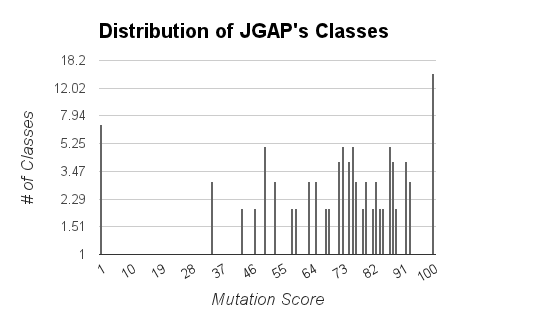
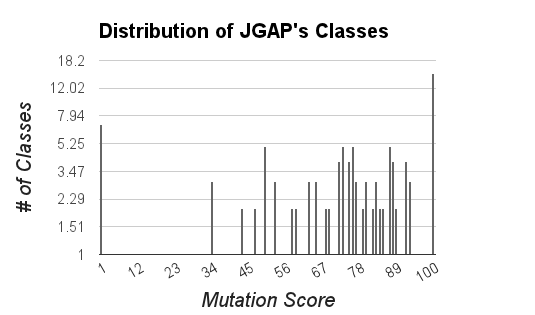
Address more issues on the paper submission
Add:
 * Horizontal lines under tables
 * The actual number of data points we gathered into the results section
 * Italics around quote in conclusion section

Remove:
 * Itemizes and enumerates from .tex to save space

Refactor:
 * Verbose captions to save space
 * Table of Javalanche's results to in-line text to save space
 * Cross-validation bit as well as moved it to the results section
 * Feature Data section to reference the gathering of metric sets
 * Version footnotes to in-line text to save space
 * Javalanche's mutation operator table to in-line text to save space
 * Mutation score distribution figure's font sizes to be larger
 * Mutation score distribution figure's placement
 * References to trim down space taken
 * Trim hanging whitespace
 * Wording in some phrases

diff --git a/doc/RAISE2012/RAISE2012.tex b/doc/RAISE2012/RAISE2012.tex
@@ -42,13 +42,11 @@ Mutation testing uses a set of \emph{mutation operators} to generate faulty vers
 
 A major drawback of mutation testing is that even a small program may yield hundreds or thousands of mutants potentially making the process cost prohibitive in comparison to other coverage metrics such as statement or branch coverage. Several approaches have been proposed in the literature to improve mutation testing performance and scalability~\cite{OU00}:
 
-\begin{itemize}
-  \item \textbf{``Do fewer'' approach:} this category of optimizations aim to decrease the computational cost of mutation testing by reducing the number of mutants that a test suite is evaluated against. The most popular example from this category is selective mutation -- the use of a subset of mutation operators that have been empirically shown to be as effective as using an entire set of operators~\cite{OLR+96}. Another example of a ``do fewer'' approach is to randomly sample mutants~\cite{Won93}.
+\textbf{``Do fewer'' approach:} this category of optimizations aim to decrease the computational cost of mutation testing by reducing the number of mutants that a test suite is evaluated against. The most popular example from this category is selective mutation -- the use of a subset of mutation operators that have been empirically shown to be as effective as using an entire set of operators~\cite{OLR+96}. Another example of a ``do fewer'' approach is to randomly sample mutants~\cite{Won93}.
 
-  \item \textbf{``Do smarter'' approach:} this category of optimizations aim to decrease the cost of mutation testing by improving the actual mutation testing technique. For example, weak mutation \emph{``...is an approximation technique that compares the internal states of mutant and original program immediately after execution of the mutated portion of the code (instead of comparing the program output)''}~\cite{OU00}.
+\textbf{``Do smarter'' approach:} this category of optimizations aim to decrease the cost of mutation testing by improving the actual mutation testing technique. For example, weak mutation \emph{``...is an approximation technique that compares the internal states of mutant and original program immediately after execution of the mutated portion of the code (instead of comparing the program output)''}~\cite{OU00}.
 
-  \item \textbf{``Do faster'' approach:} this category of optimizations aim to reduce the cost of mutation testing by focusing on performance. For example, one ``do faster'' approach improves compilation time using schema-based mutation -- \emph{``...encodes all mutations into one source level program...''}~\cite{OU00}.
-\end{itemize}
+\textbf{``Do faster'' approach:} this category of optimizations aim to reduce the cost of mutation testing by focusing on performance. For example, one ``do faster'' approach improves compilation time using schema-based mutation -- \emph{``...encodes all mutations into one source level program...''}~\cite{OU00}.
 
 As an alternative to the above techniques, we propose a ``do fewer and smarter'' technique for mutation testing at a unit level.  When mutation testing is used for the creation or improvement of a test suite,  the test suite will often have to be applied to the mutants in an iterative fashion as tests are added, removed and modified. Furthermore, the effects on the mutation score after each iteration have to be observed. We propose to replace at least some of these intermediate test suite evaluations on mutants with mutation score prediction and thus decrease the number of mutants that have to be evaluated using a test suite. Our proposed approach uses machine learning to predict the mutation score based on a combination of source code and test suite metrics of the code unit under test.
 
@@ -66,42 +64,21 @@ A support vector machine (SVM) is an example of a linear discrimination machine 
 
 Traditionally, SVMs have been used for two-group classification problems~\cite{CV95} but have also been generalized to \emph{n}-group classification problems. In a two-group classification problem this approach identifies an optimal separating hyperplane that divides the set of data into two groups based on a set of support vectors (i.e., features). In other words, the goal is to maximize the distance from the closest data points on both sides of the hyperplane to the hyperplane itself~\cite{ALP04}.
 
-In our research we use LIBSVM\footnote{LIBSVM version 3.11}, a SVM library capable of solving \emph{n}-group classification problems~\cite{CL11}. LIBSVM was chosen because it provides a command-line interface that could be easily integrated with the other tools used in our approach.
+In our research we use LIBSVM (version 3.11), a SVM library capable of solving \emph{n}-group classification problems~\cite{CL11}. LIBSVM was chosen because it provides a command-line interface that could be easily integrated with the other tools used in our approach.
 
 
 \subsection{Javalanche -- a mutation testing tool for Java}
 \label{subsec:javalanche}
-Mutation testing has previously been described in Section~\ref{sec:introduction}. In our research we use Javalanche\footnote{Javalanche version 0.4}, a mutation testing tool for Java~\cite{SZ09} that applies a subset of the method-level mutation operators to source code. Method-level operators are the most common set of mutation operators applied to procedural programming languages and each method-level mutation defines a syntactic change to an operator, operand or statement in a program. Javalanche uses a subset of the method-level mutation operators (see Table~\ref{tab:mutation_operators}). These selected operators provide a close approximation of the effectiveness of using the entire set of method-level operators at a reduced cost~\cite{OLR+96}. 
+Mutation testing has previously been described in Section~\ref{sec:introduction}. In our research we use Javalanche (version 0.4), a mutation testing tool for Java~\cite{SZ09} that applies a subset of the method-level mutation operators to source code. Method-level operators are the most common set of mutation operators applied to procedural programming languages and each method-level mutation defines a syntactic change to an operator, operand or statement in a program. Javalanche uses a subset of the method-level mutation operators (replace constant, negate jump, arithmetic replace, remove call, replace variable, absolute value, unary operator) . These selected operators provide a close approximation of the effectiveness of using the entire set of method-level operators at a reduced cost~\cite{OLR+96}.
 
-We chose Javalanche for our research because it is customizable and extensible, therefore allowing us to modify Javalanche to calculate unit mutation scores and output a richer set of results. We plan to further take advantage of Javalanche's extensibility in the future by adding object-oriented mutation operators. Other benefits of Javalanche include: full integration with JUnit and the use of mutation schemas to improve performance. 
-
-\begin{table}[!t]
-  \centering
-  \rowcolors{2}{gray!30}{gray!20}
-  \begin{tabular}{|l|l|}
-    \hline
-    \rowcolor[RGB]{169,196,223}
-    \textbf{Mutation Operator} & \textbf{Description} \\
-    \hline REPLACE\_CONSTANT & Replace a constant \\
-    \hline NEGATE\_JUMP & Negate jump condition \\
-    \hline ARITHMETIC\_REPLACE & Replace arithmetic operator \\
-    \hline REMOVE\_CALL & Remove method call \\
-    \hline REPLACE\_VARIABLE & Replace variable reference\\
-    \hline ABSOLUTE\_VALUE & Insert absolute value of a variable \\
-    \hline UNARY\_OPERATOR & Insert unary operator \\
-    \hline
-  \end{tabular}
-  \caption{The set of selective method-level mutation operators used in Javalanche~\cite{OLR+96}}
-  \label{tab:mutation_operators}
-\end{table}
-
+We chose Javalanche for our research because it is customizable and extensible, therefore allowing us to modify Javalanche to calculate unit mutation scores and output a richer set of results. We plan to further take advantage of Javalanche's extensibility in the future by adding object-oriented mutation operators. Other benefits of Javalanche include: full integration with JUnit and the use of mutation schemas to improve performance.
 
 \subsection{Eclipse Metrics Plugin -- a source code metrics tool}
 \label{subsec:Metrics}
 Source code metrics measure knowledge of a project's source code through the use of code analysis. Source code metrics give insight into various aspects of the source code including it's complexity, size, coupling, cohesion as well as object-oriented attributes~\cite{SCE05,McCa76,Kan02,HWY09,Hend95,SRD12}.
 
-In our research, we use the Eclipse Metrics Plugin\footnote{Eclipse Metrics Plugin version 1.3.8.20100730-001} to acquire source code metrics of the methods and classes under test~\cite{Metrics}. We selected this tool as it provides a comprehensive set of metrics for Java programs. 
-We use Eclipse Metrics Plugin to collect metrics for feature sets \ding{172} and indirectly \ding{174} and \ding{175} from Table~\ref{tab:metrics}.
+In our research, we use the Eclipse Metrics Plugin (version 1.3.8.20100730-001) to acquire source code metrics of the methods and classes under test~\cite{Metrics}. We selected this tool as it provides a comprehensive set of metrics for Java programs.
+We use Eclipse Metrics Plugin to collect metrics for feature sets \ding{172}, \ding{174} and \ding{175} from Table~\ref{tab:metrics}.
 
 \begin{table}[!t]
   \centering
@@ -110,7 +87,7 @@ We use Eclipse Metrics Plugin to collect metrics for feature sets \ding{172} and
     \hline
     \rowcolor[RGB]{169,196,223}
     \textbf{Metrics} & \textbf{Description} & \textbf{Scope} & \textbf{Set} \\
-    
+
     % Set 1: Source Code Metrics
     \hline MLOC & Method lines of code & Method & \ding{172} \\
     \hline NBD & Nested block depth & Method & \ding{172} \\
@@ -140,7 +117,7 @@ We use Eclipse Metrics Plugin to collect metrics for feature sets \ding{172} and
     \hline ANBD & Average of NBD of methods & Class & \ding{174} \\
     \hline AVG & Average of VG of methods & Class & \ding{174} \\
     \hline APAR & Average of PAR of methods & Class & \ding{174} \\
-    
+
     % Set 4: Accumulated Test Case Metrics
     \hline STMLOC & Sum of MLOC of test methods & Class/Method & \ding{175} \\
     \hline STNBD & Sum of NBD of test methods & Class/Method & \ding{175} \\
@@ -159,12 +136,14 @@ We use Eclipse Metrics Plugin to collect metrics for feature sets \ding{172} and
   \end{tabular}
   \caption{The set of metrics used in our research. Each set of metrics correspond to a particular feature set (\ding{172}: Source Code Metrics, \ding{173}: Coverage Metrics, \ding{174}: Accumulated Source Code Metrics, \ding{175}: Accumulated Test Case Metrics, \ding{176}: Number of Tests Cases.)}
   \label{tab:metrics}
+  \vspace{2mm}
+  \hrule
 \end{table}
 
 
 \subsection{EMMA -- a test suite coverage tool}
 \label{subsec:emma}
-Test suite metrics can be gathered using similar technique to those used in the gathering of source code metrics. In fact, since we focus on JUnit test cases (which are Java classes) we can actually use the Eclipse Metrics Plugin to gather some of the test suite metrics. To gather other test suite metrics we use the tool EMMA\footnote{EMMA version 2.0.5312} which is capable of determining the statement and basic block coverage of a test suite~\cite{EMMA}. We use Emma to acquire metrics for feature set \ding{173} and also indirectly \ding{176} from Table~\ref{tab:metrics}.
+Test suite metrics can be gathered using similar technique to those used in the gathering of source code metrics. In fact, since we focus on JUnit test cases (which are Java classes) we can actually use the Eclipse Metrics Plugin to gather some of the test suite metrics. To gather other test suite metrics we use the tool EMMA (version 2.0.5312) which is capable of determining the statement and basic block coverage of a test suite~\cite{EMMA}. We use Emma to acquire metrics for feature set \ding{173} and \ding{176} from Table~\ref{tab:metrics}.
 
 
 \section{Approach}
@@ -187,15 +166,9 @@ The input that our training process requires is a set of units of code in which 
 
 The first step of our process is to collect the two types of data required to train the SVM:
 
-\begin{enumerate}
-  \item \textbf{Category Data:} Javalanche is used to generate the mutants of all units in the project under test. In addition to mutant generation, Javalanche also performs the mutation testing by executing the required tests for each mutant, although it currently does not exclude equivalent mutants from the analysis. For our research, we added a new analyzer component to Javalanche that outputs an intermediate text file of mutation scores of the covered units (methods and classes). This intermediate text file also contains a list of every test that was executed for each method.
+\textbf{Category Data:} Javalanche is used to generate the mutants of all units in the project under test. In addition to mutant generation, Javalanche also performs the mutation testing by executing the required tests for each mutant, although it currently does not exclude equivalent mutants from the analysis. For our research, we added a new analyzer component to Javalanche that outputs an intermediate text file of mutation scores of the covered units (methods and classes). This intermediate text file also contains a list of every test that was executed for each method.
 
-  \item \textbf{Feature Data:} The feature data is comprised of the source code and test suite metrics. To collect the source code metrics of the project we use the Eclipse Metrics Plugin. We collect metrics not only of the units of code under test, but also the unit test cases. After the metrics are collected they are exported to intermediate text files of source code and test suite metrics for methods and classes.
-
-  To collect the additional test suite specific metrics, we acquire the statement coverage and basic block coverage of each unit under test using EMMA. We use EMMA to determine the coverage of each method by only examining the set of executed tests that Javalanche reported. This information is also exported to an intermediate text file containing the test suite coverage metrics.
-\end{enumerate}
-
-Next, we combine all the data contained in the intermediate text files into a database. Since we are interested in both method and class units under test we are not only interested in method-level metrics but also class-level metrics. Therefore, for a given class we aggregate and merge metrics from the each contained methods to generate the class metrics.
+\textbf{Feature Data:} The feature data is comprised of the source code and test suite metrics. We use the tools described in Section~\ref{sec:background} to gather the metrics of the units of code under test and the unit test cases. The following will references the metric sets from in Table~\ref{tab:metrics}. We gather metric set \ding{172} using the Eclipse Metric Plugin and we also accumulate the test code units metrics to form metric set \ding{175}. EMMA is used to collect metric set \ding{173} and \ding{176} by determining the coverage of each method by only examining the set of executed tests for each method-level code unit. All the tools produce intermediate files of data, which we combine together into a database. As classes are composed of one-to-many methods, we aggregate and merge metrics from the contained methods to generate the set of accumulated class metrics (see set \ding{174} in Table~\ref{tab:metrics}).
 
 Next, we create a .libsvm file containing the category and feature data from the database. Instead of predicting a specific mutation score percentage, we categorize all mutation scores as \textit{low, medium, high} which reduces the mutation score prediction to a three-group classification problem. The ranges are determined based on the distribution of the mutation scores in our training data (further explained in Section~\ref{subsec:results}). Finally, the .libsvm file is passed into LIBSVM to complete the training process.
 
@@ -204,12 +177,10 @@ Next, we create a .libsvm file containing the category and feature data from the
 \label{subsec:prediction}
 Once we have trained the SVM, we can then use the SVM for prediction. We can predict the category of an unknown unit of code by first extracting the source code and test suite metrics. The extracted features are then passed into the SVM which will then be assigned a category of \textit{low, medium, high} for the mutation score.  Currently, our approach only predicts mutation scores within a project. That is, the training and prediction data both come from the same project repository.
 
-It is also possible to perform cross-validation to assess the accuracy of the approach for a given set of training data. Typically cross-validation is used when there is not a lot of data available for training and prediction. Cross-validation splits up the provided dataset into \emph{n} equal-sized partitions and the SVM internally train on $\emph{n}-1$ sets and predict the last. This process is repeated \emph{n} times where a different partition is selected for prediction each time. Finally all the individual prediction accuracies are tallied and averaged for a cross-validation accuracy of \emph{n}-folds (i.e., a 10-fold cross-validation is common).
-
 
 \section{Case Study: JGAP}
 \label{sec:case_study}
-A preliminary evaluation of our mutation score predictor was preformed on JGAP\footnote{JGAP version 3.6.1}, an open source genetic algorithm and genetic programming framework for Java, which was selected due to its comprehensive JUnit test suite~\cite{JGAP}. We decided to use an open source project that is large enough to contain many mutants, as well as a mature test suite. Basic source code metrics for JGAP are provided in Table~\ref{tab:jgap_source_stats}. JGAP contains 1387\footnote{JGAP has 1412 JUnit test cases in total, however 25 of the tests caused errors in the Javalanche tool and were removed.} usable JUnit test cases. We only considered the set of covered mutations in our approach as the mutations not covered contained no associated test cases. The results of Javalanche's mutation testing is illustrated in Table~\ref{tab:jgap_mutation_stats}.
+A preliminary evaluation of our mutation score predictor was preformed on JGAP (version 3.6.1), an open source genetic algorithm and genetic programming framework for Java, which was selected due to its comprehensive JUnit test suite~\cite{JGAP}. We decided to use an open source project that is large enough to contain many mutants, as well as a mature test suite. Basic source code metrics for JGAP are provided in Table~\ref{tab:jgap_source_stats}. JGAP contains 1387\footnote{JGAP has 1412 JUnit test cases in total, however 25 of the tests caused errors in the Javalanche tool and were removed.} usable JUnit test cases. For JGAP Javalanche generated 32031 mutants using the method-level mutation operators (see Section~\ref{subsec:javalanche}) of which only 18378 were actually covered by JGAP's test suite. We only considered the set of covered mutations in our approach as the mutations not covered contained no associated test cases. Considering only the covered mutants, JGAP's test suite killed 13698 mutants in 688 minutes and 43 seconds\footnote{Ran on Intel Core i7-870 processor @ 2.93 GHz, with no parallel task execution in Javalanche} resulting in an overall mutation score of 74.53\%.
 
 \begin{table}[!t]
   \centering
@@ -221,46 +192,29 @@ A preliminary evaluation of our mutation score predictor was preformed on JGAP\f
     \hline Classes & 415 & 180 \\
     \hline Methods & 3017 & 1626 \\
     \hline LOC & 28975 & 19556 \\
-    \hline JUnit Test Cases & -- & 1412\footnotemark[6] \\
+    \hline JUnit Test Cases & -- & 1412\footnotemark[1] \\
     \hline
   \end{tabular}
   \caption{The amount of classes, methods, lines of code (LOC), and JUnit test cases in the JGAP repository}
   \label{tab:jgap_source_stats}
-\end{table}
-
-\begin{table}[!t]
-  \centering
-  \rowcolors{2}{gray!30}{gray!20}
-  \begin{tabular}{|l|r|}
-    \hline
-    \rowcolor[RGB]{169,196,223}
-    \textbf{Javalanche Artifacts} & \textbf{\# of Occurrences} \\
-    \hline Valid JUnit Test Cases & 1387\footnotemark[6] \\
-    \hline Generated Mutants & 32031 \\
-    \hline Covered Mutants & 18378 \\
-    \hline Killed Mutants & 13698 \\
-    \hline Overall Mutation Score & 74.53\% \\
-    \hline Mutation Testing Time & 688 minutes and 43 seconds\footnote{Ran on Intel Core i7-870 processor @ 2.93 GHz} \\
-    \hline
-  \end{tabular}
-  \caption{Mutation results of JGAP. The valid test cases are those which successfully ran in Javalanche. The killed mutants and overall mutation score are using the covered mutants.}
-  \label{tab:jgap_mutation_stats}
+  \vspace{2mm}
+  \hrule
 \end{table}
 
 
 \subsection{Results}
 \label{subsec:results}
-We first decided to view the distribution of JGAP's mutation scores, which are shown in Figure~\ref{fig:mutation_distributions}. It is clearly obvious that the distribution for both classes and methods are more heavily dense for high mutation scores. 
+We gathered 695 method-level data points and 127 class-level data points from JGAP. We first decided to view the distribution of JGAP's mutation scores, which are shown in Figure~\ref{fig:mutation_distributions}. It is clearly obvious that the distribution for both classes and methods are more heavily dense for high mutation scores.
 
-\begin{figure}[!t]
+\begin{figure*}[!t]
   \centering
-  \includegraphics[width=4.35cm]{figures/class_distribution.png}
-  \includegraphics[width=4.35cm]{figures/method_distribution.png}
-  \caption{The mutation score distribution (in log scale) of JGAP's classes and method that can be used for training.}
+  \includegraphics[width=8cm]{figures/class_distribution.png}
+  \includegraphics[width=8cm]{figures/method_distribution.png}
+  \caption{The mutation score distribution (in log scale) of JGAP's classes and methods that can be used for training.}
   \label{fig:mutation_distributions}
   \vspace{2mm}
   \hrule
-\end{figure}
+\end{figure*}
 
 As mentioned in Section~\ref{subsec:training} we categorize the collected data into three groups of \textit{low, medium, high} based on their mutation scores. Ideally we would like to have sufficient data coverage for the complete range of mutation scores, such that we can train the SVM using simple categories such as 0\%--33\% (\textit{low}), 33\%-66\% (\textit{medium)} and 66\%-100\% (\textit{high}). Given our situation of not being able to split up the collected data easily across the mutation scores we instead decided to categorize our data such that one third of our data will fall into each category. This results in varying mutation score ranges for each category for class- and method-level data as shown in Table~\ref{tab:results_details}.
 
@@ -276,15 +230,18 @@ As mentioned in Section~\ref{subsec:training} we categorize the collected data i
     \hline high & 83.25\% -- 100.00\% & 90.90\% -- 100.00\% \\
     \hline
   \end{tabular}
-  \caption{The mutation score ranges that equally partition the datasets into three categories. These ranges are for the JGAP project and are determined by the 695 collected methods and 127 collect classes.}
+  \caption{The mutation score ranges that equally partition the datasets into three categories.}
   \label{tab:results_details}
+  \vspace{2mm}
+  \hrule
 \end{table}
 
-\begin{figure}[!t]
+\begin{figure}[!h]
+  \scriptsize
   \begin{tikzpicture}[
   box/.style={draw,rectangle,minimum size=0.5cm,text width=1.25cm,align=center}]
     \matrix (confusion_matrix) {
-      \node (actual_low_prediction_low) 
+      \node (actual_low_prediction_low)
       [box,
         label=left:\(\mathbf{L'}\),
         label=above:\(\mathbf{L}\)
@@ -332,7 +289,7 @@ As mentioned in Section~\ref{subsec:training} we categorize the collected data i
   \hrule
 \end{figure}
 
-To evaluate our results we decided to use a 10-fold cross-validation of our datasets due to the small amount of data acquired from this experiment. Our achieved accuracy for JGAP using cross-validation (with all features from Table~\ref{tab:metrics}) was 57.48\% for class-level mutation scores and 55.11\% for method-level mutation scores. It is also worth mentioning that our achieved accuracy outperforms random (which has an accuracy of 33.33\% given our category distributions) by 24.15\% for classes and 21.78\% for methods. We re-conducted the cross-validation using subsets of our feature set and found that the combination of features slightly improves the prediction accuracy (see Table~\ref{tab:subset_accuracy}). A further analysis of the acquired metrics used as the feature set in LIBSVM would prove useful in understanding the relevant and important metrics in mutation score prediction.
+To evaluate our results we decided to perform a 10-fold cross-validation of our datasets due to the small amount of data acquired from this experiment. Effectively, this splits up our dataset into \emph{10} equal-sized partitions and the SVM internally train on $\emph{9}$ sets and predict the last. This process is repeated \emph{10} times where a different partition is selected for prediction each time. Finally all the individual prediction accuracies are tallied and averaged for a cross-validation accuracy of \emph{10}-folds. Our achieved cross-validation accuracy of JGAP (with all features from Table~\ref{tab:metrics}) was 57.48\% for class mutation scores and 55.11\% for method mutation scores. Figure~\ref{fig:confusion_matrix} illustrates the confusion matrix of the predicted values made by the SVM for our three categories. It is also worth mentioning that our achieved accuracy outperforms random (which has an accuracy of 33.33\% given our category distributions) by 24.15\% for classes and 21.78\% for methods. We re-conducted the cross-validation using subsets of our feature set and found that the combination of features slightly improves the prediction accuracy (see Table~\ref{tab:subset_accuracy}). A further analysis of the acquired metrics used as the feature set in LIBSVM would prove useful in understanding the relevant and important metrics in mutation score prediction.
 
 \begin{table}[!t]
   \centering
@@ -350,6 +307,8 @@ To evaluate our results we decided to use a 10-fold cross-validation of our data
   \end{tabular}
   \caption{The cross validation (10-folds) accuracy of each feature subset of all the features. The sets reference the features from Table~\ref{tab:metrics}.}
   \label{tab:subset_accuracy}
+  \vspace{2mm}
+  \hrule
 \end{table}
 
 
@@ -360,11 +319,11 @@ The use of software metrics to locate faults in source code has been well resear
 
 \section{Conclusions \& Future Work}
 \label{sec:conclusions_future_work}
-Our technique for predicting mutation score using source code and test suite metrics achieved an accuracy of 57.48\% and 55.11\% for classes and methods respectively -- outperforming random. These results have not been optimized and we believe that with further enhancements and a more tailored feature set we may be able to increase our prediction accuracy. 
+Our technique for predicting mutation score using source code and test suite metrics achieved an accuracy of 57.48\% and 55.11\% for classes and methods respectively -- outperforming random. These results have not been optimized and we believe that with further enhancements and a more tailored feature set we may be able to increase our prediction accuracy.
 
 Our approach currently only used a subset of the traditional mutation operators. Obviously there are some limitations of this, we are missing a whole class of mutation operators that operator on object-oriented aspects of the system under test. We plan to address this issue in future work by extending Javalanche to include more mutation operators.
 
-Currently we have applied our predictive technique to a single open source project -- JGAP. Additionally, we performed training and prediction from the same project. As stated by Kitchenham and Mendes ``It is invalid to select one or two datasets to `prove' the validity of a new technique because we cannot be sure that, of the many published datasets, those chosen are the only ones that favour the new technique''~\cite{KM09}. Thus, we plan to evaluate more open source projects using our prediction technique to better assess the prediction accuracy. With more data we plan to investigate whether cross-project models are valid for mutation score prediction. We would like to consider projects with more mutation scores to explore the variation in prediction accuracy between strong and weak test suites. Finally by considering more projects we can also explore the validity of the proposed technique.
+Currently we have applied our predictive technique to a single open source project -- JGAP. Additionally, we performed training and prediction from the same project. As stated by Kitchenham and Mendes \textit{``It is invalid to select one or two datasets to `prove' the validity of a new technique because we cannot be sure that, of the many published datasets, those chosen are the only ones that favour the new technique''}~\cite{KM09}. Thus, we plan to evaluate more open source projects using our prediction technique to better assess the prediction accuracy. With more data we plan to investigate whether cross-project models are valid for mutation score prediction. We would like to consider projects with more mutation scores to explore the variation in prediction accuracy between strong and weak test suites. Finally by considering more projects we can also explore the validity of the proposed technique.
 
 
 \bibliographystyle{IEEEtran}
